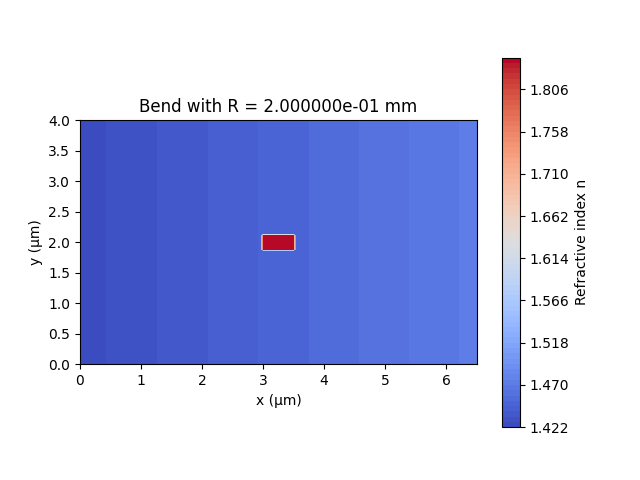
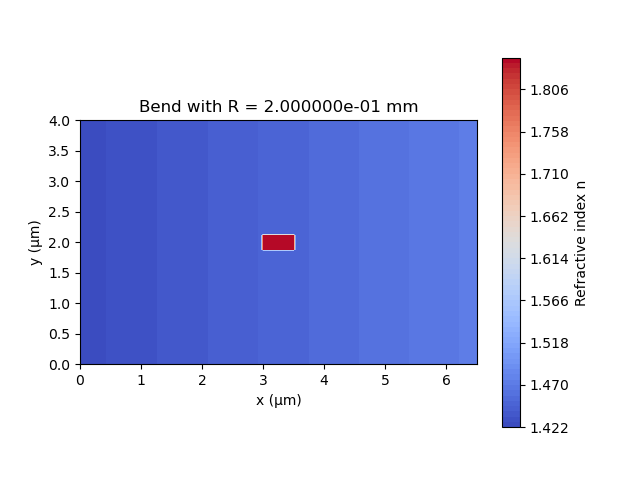
modify PML and try to fix loss calc

diff --git a/ModeSolver_2026/Waveguide.py b/ModeSolver_2026/Waveguide.py
@@ -14,7 +14,7 @@ from .pml import (
     boundary_for_empy,
     extend_vertex_axes,
     has_pml,
-    make_pml_epsfunc,
+    make_pml_complex_grid,
     normalize_pml_cells,
     validate_calc_boundary,
 )
@@ -72,6 +72,55 @@ def _waveguide_plot_kind(which: str | None) -> Literal["rix", "all"]:
         "Waveguide.plot(which=...): unknown "
         f"{which!r}; use None (default), 'RIX', 'refractiveindex', or 'all'."
     )
+
+
+def _svfd_solve_pml(
+    wl: float,
+    x: np.ndarray,
+    y: np.ndarray,
+    epsfunc,
+    boundary: str,
+    method: str,
+    neigs: int,
+    tol: float,
+    guess: float,
+) -> SVFDModeSolver:
+    """SVFD eigsolve with shift-invert, required for complex-grid PML.
+
+    EMpy's default SVFD ``solve()`` uses ``which='LR'`` (largest real-part
+    eigenvalue) which converges poorly for the fully-complex FD matrix
+    produced by stretched-coordinate PML grids.  This helper builds the
+    matrix the same way EMpy does, then calls ``eigs(sigma=...)`` to find
+    eigenvalues near the expected guided-mode range.
+    """
+    from scipy.sparse.linalg import eigs
+
+    solver = SVFDModeSolver(wl, x, y, epsfunc, boundary, method=method)
+    solver.nmodes = neigs
+    solver.tol = tol
+    A = solver.build_matrix()
+
+    k0 = 2.0 * np.pi / wl
+    sigma = (guess * k0) ** 2
+    eigvals, eigvecs = eigs(
+        A, k=neigs, sigma=sigma, tol=tol,
+        ncv=max(20, 10 * neigs), return_eigenvectors=True,
+    )
+
+    neff = wl * np.sqrt(eigvals) / (2.0 * np.pi)
+    phi = [eigvecs[:, i].reshape(solver.nx, solver.ny) for i in range(neigs)]
+
+    idx = np.flipud(np.argsort(neff.real))
+    solver.neff = neff[idx]
+    ordered_phi = [phi[i] for i in idx]
+
+    if method == "scalar":
+        solver.phi = ordered_phi
+    elif method == "Ex":
+        solver.Ex = ordered_phi
+    elif method == "Ey":
+        solver.Ey = ordered_phi
+    return solver
 
 
 class Waveguide:
@@ -439,6 +488,28 @@ class Waveguide:
 
         return epsfunc
 
+    def _make_epsfunc_bounded(self) -> Callable:
+        """Build a real ε callback that clamps coordinates to the physical box.
+
+        Unlike :meth:`_make_epsfunc`, coordinates outside ``[0, width] x
+        [0, height]`` are clamped (not rejected), so PML-padded grids get the
+        nearest-edge cladding index.  Complex-valued coordinates (from the
+        stretched-coordinate PML grid) are reduced to their real parts before
+        lookup.
+        """
+        def epsfunc(x: np.ndarray, y: np.ndarray) -> np.ndarray:
+            xr = np.real(x) if np.iscomplexobj(x) else x
+            yr = np.real(y) if np.iscomplexobj(y) else y
+            if xr.ndim != 1 or yr.ndim != 1:
+                raise ValueError("EMpy passes 1D center coordinates for x and y.")
+            eps = np.empty((xr.size, yr.size), dtype=np.float64)
+            for ix, xv in enumerate(xr):
+                for iy, yv in enumerate(yr):
+                    eps[ix, iy] = self._n_at_bounded(float(xv), float(yv)) ** 2
+            return eps
+
+        return epsfunc
+
     def calc(
         self,
         wavelength_um: float = 1.55,
@@ -485,9 +556,8 @@ class Waveguide:
 
             * ``'0'`` — Hx and Hy zero immediately outside the boundary (EMpy).
             * ``'S'`` / ``'A'`` — symmetry / antisymmetry (EMpy); see EMpy FD docs.
-            * ``'P'`` — perfectly matched layer (PML): absorption via complex
-              :math:`\\varepsilon` on padded cells; EMpy still sees outer ``'0'`` on
-              that edge.
+            * ``'P'`` — perfectly matched layer (PML): stretched-coordinate PML
+              via complex grid spacing; EMpy still sees outer ``'0'`` on that edge.
 
             Example: ``"PP00"`` is PML on top and bottom only, with zero-field boundaries on left and right.
 
@@ -495,9 +565,6 @@ class Waveguide:
             If only one character is provided, it is expanded to all four sides,
             e.g. ``"P"`` → ``"PPPP"``, ``"0"`` → ``"0000"``, ``"S"`` → ``"SSSS"``,
             ``"A"`` → ``"AAAA"``.
-
-            ``'P'`` (PML) is only implemented via the complex-ε
-            preprocessor (same path for SVFD and VFD).
         fd_method : str, default="scalar"
             For ``solver`` SVFD only: ``'scalar'``, ``'Ex'``, or ``'Ey'``.
         index_guess : float or None, default=None
@@ -525,31 +592,29 @@ class Waveguide:
         b_upper = validate_calc_boundary(boundary)
         b_empy = boundary_for_empy(b_upper)
 
-        if has_pml(b_upper):
+        use_pml = has_pml(b_upper)
+
+        if use_pml:
             pml_nswe = normalize_pml_cells(pml_cells, b_upper)
-            x, y, meta = extend_vertex_axes(w, h, nx, ny, b_upper, pml_nswe)
-            epsfunc = make_pml_epsfunc(
-                self._n_at_bounded,
-                w,
-                h,
-                wavelength_um,
-                b_upper,
-                meta["d_north_um"],
-                meta["d_south_um"],
-                meta["d_east_um"],
-                meta["d_west_um"],
-                m=pml_m,
-                R=pml_R,
+            x_real, y_real, meta = extend_vertex_axes(
+                w, h, nx, ny, b_upper, pml_nswe,
+            )
+            x, y = make_pml_complex_grid(
+                x_real, y_real, w, h, wavelength_um, b_upper,
+                meta["d_north_um"], meta["d_south_um"],
+                meta["d_east_um"], meta["d_west_um"],
+                m=pml_m, R=pml_R,
                 sigma_max_geom_override=pml_sigma_max_geom,
             )
+            epsfunc = self._make_epsfunc_bounded()
         else:
             x = np.linspace(0.0, w, nx)
             y = np.linspace(0.0, h, ny)
+            x_real = x
+            y_real = y
             epsfunc = self._make_epsfunc()
 
         # Conformal equivalent-index transformation for bent waveguides.
-        # Purely a preprocessing step on epsfunc; commutes with the PML
-        # complex-stretching factor, so both paths above are handled the same.
         bend = self._active_bend()
         if bend is not None:
             R_m, x0_um, formula = bend
@@ -568,6 +633,14 @@ class Waveguide:
             self._solver = fd_solver
             self._vectorial = True
             self._solver_backend = "vfd"
+        elif use_pml:
+            fd_solver = _svfd_solve_pml(
+                wavelength_um, x, y, epsfunc, b_empy,
+                fd_method, neigs, tol, guess,
+            )
+            self._solver = fd_solver
+            self._vectorial = False
+            self._solver_backend = "svfd"
         else:
             fd_solver = SVFDModeSolver(
                 wavelength_um, x, y, epsfunc, b_empy, method=fd_method
@@ -577,8 +650,8 @@ class Waveguide:
             self._solver_backend = "svfd"
 
         self._wl_um = wavelength_um
-        self._x = x
-        self._y = y
+        self._x = np.real(x_real) if np.iscomplexobj(x_real) else x_real
+        self._y = np.real(y_real) if np.iscomplexobj(y_real) else y_real
         return self
 
     @property

diff --git a/ModeSolver_2026/pml.py b/ModeSolver_2026/pml.py
@@ -1,4 +1,4 @@
-"""PML preprocessing: complex isotropic permittivity on a padded real grid."""
+"""PML preprocessing via stretched-coordinate complex grid for FD mode solvers."""
 
 from __future__ import annotations
 
@@ -189,6 +189,103 @@ def _s_stretch(
     return 1.0 - 1.0j * sigma_rad / omega
 
 
+def make_pml_complex_grid(
+    x_real: np.ndarray,
+    y_real: np.ndarray,
+    w_um: float,
+    h_um: float,
+    wavelength_um: float,
+    boundary_upper: str,
+    d_north_um: float,
+    d_south_um: float,
+    d_east_um: float,
+    d_west_um: float,
+    m: int = 3,
+    R: float = 1e-8,
+    sigma_max_geom_override: float | None = None,
+) -> tuple[np.ndarray, np.ndarray]:
+    """Convert real extended vertex axes into complex stretched-coordinate arrays.
+
+    Inside the physical domain ``[0, w] x [0, h]`` the coordinates stay purely
+    real.  In the PML padding the cell spacings acquire an imaginary part that
+    encodes the PML absorption via the Chew & Weedon (1994) stretched-coordinate
+    formulation.  When passed to EMpy's FD solver, ``dx = numpy.diff(x_complex)``
+    is complex in PML cells, so the finite-difference stencil coefficients
+    (which are proportional to ``1/dx`` and ``1/dx**2``) automatically include
+    the correct ``1/s`` and ``1/s**2`` PML factors without modifying EMpy's code.
+
+    Parameters
+    ----------
+    x_real, y_real : np.ndarray
+        Real vertex coordinates (µm) from :func:`extend_vertex_axes`.
+    w_um, h_um : float
+        Physical domain width and height in µm.
+    wavelength_um : float
+        Vacuum wavelength in µm.
+    boundary_upper : str
+        Four-character NSEW boundary string (from :func:`validate_calc_boundary`).
+    d_north_um, d_south_um, d_east_um, d_west_um : float
+        PML slab thickness on each side in µm (0 when that side is not PML).
+    m : int, default 3
+        Polynomial grading order for :math:`\\sigma(u) \\propto (u/d)^m`.
+    R : float, default 1e-8
+        Target reflectivity for the default :math:`\\sigma_{\\max}`.
+    sigma_max_geom_override : float or None, default None
+        If set, overrides the automatic :math:`\\sigma_{\\max}`.
+
+    Returns
+    -------
+    x_complex, y_complex : np.ndarray (dtype=complex128)
+        Vertex arrays whose ``diff()`` values carry the PML stretching.
+    """
+    omega = 2.0 * np.pi * const.c / (wavelength_um * 1e-6)
+    b = boundary_upper
+
+    def _stretch_axis(
+        coords: np.ndarray,
+        lo: float,
+        hi: float,
+        d_lo_um: float,
+        d_hi_um: float,
+        b_lo: str,
+        b_hi: str,
+    ) -> np.ndarray:
+        n = len(coords)
+        if n < 2:
+            return coords.astype(np.complex128)
+        dx_real = np.diff(coords)
+        dx_complex = np.empty(n - 1, dtype=np.complex128)
+        for i in range(n - 1):
+            mid = 0.5 * (coords[i] + coords[i + 1])
+            s: complex = 1.0 + 0.0j
+            if b_hi == "P" and d_hi_um > 0.0:
+                u = max(0.0, mid - hi)
+                if u > 0.0:
+                    s *= _s_stretch(u, d_hi_um, m, R, omega, sigma_max_geom_override)
+            if b_lo == "P" and d_lo_um > 0.0:
+                u = max(0.0, lo - mid)
+                if u > 0.0:
+                    s *= _s_stretch(u, d_lo_um, m, R, omega, sigma_max_geom_override)
+            # _s_stretch returns s = 1 - jσ/ω (ε-convention: multiplying ε by s
+            # adds loss).  EMpy's FD stencil needs Im(dx) > 0 for absorption
+            # (see EMpy.stretchmesh which forces Im >= 0).  Conjugating gives
+            # s_grid = 1 + jσ/ω so that dx_complex has the correct sign.
+            dx_complex[i] = dx_real[i] * s.conjugate()
+        out = np.empty(n, dtype=np.complex128)
+        out[0] = coords[0]
+        np.cumsum(dx_complex, out=out[1:])
+        out[1:] += coords[0]
+        return out
+
+    # x: west PML is the "lo" side (x < 0), east PML is the "hi" side (x > w)
+    x_complex = _stretch_axis(x_real, 0.0, w_um, d_west_um, d_east_um, b[3], b[2])
+    # y: south PML is the "lo" side (y < 0), north PML is the "hi" side (y > h)
+    y_complex = _stretch_axis(y_real, 0.0, h_um, d_south_um, d_north_um, b[1], b[0])
+    return x_complex, y_complex
+
+
+# ---- legacy / deprecated -------------------------------------------------
+
 def make_pml_epsfunc(
     n_at_bounded: Callable[[float, float], float],
     w_um: float,
@@ -203,40 +300,24 @@ def make_pml_epsfunc(
     R: float = 1e-8,
     sigma_max_geom_override: float | None = None,
 ) -> Callable[[np.ndarray, np.ndarray], np.ndarray]:
+    """Return ``epsfunc(x, y)`` with isotropic complex-ε PML.
+
+    .. deprecated::
+        This applies PML via ``ε_eff = n² · s_x · s_y``, an isotropic
+        approximation that adds spurious loss to guided modes.  Use
+        :func:`make_pml_complex_grid` (stretched-coordinate approach) instead.
     """
-    Return ``epsfunc(x, y)`` suitable for EMpy: relative permittivity ε_r = n² (complex).
-    """
+    import warnings
+    warnings.warn(
+        "make_pml_epsfunc() uses an isotropic ε approximation that adds "
+        "spurious loss to guided modes.  Use make_pml_complex_grid() instead.",
+        DeprecationWarning,
+        stacklevel=2,
+    )
     omega = 2.0 * np.pi * const.c / (wavelength_um * 1e-6)
     b = boundary_upper
 
     def epsfunc(x: np.ndarray, y: np.ndarray) -> np.ndarray:
-        """
-        Compute complex relative permittivity with PML absorption.
-
-        Parameters
-        ----------
-        x : np.ndarray
-            1-D array of x-coordinates in microns (EMpy cell centers).
-        y : np.ndarray
-            1-D array of y-coordinates in microns (EMpy cell centers).
-
-        Returns
-        -------
-        np.ndarray
-            Complex relative permittivity ε_r = (n₀ √(s_x s_y))² with shape
-            (x.size, y.size), dtype=complex128.
-
-        Raises
-        ------
-        ValueError
-            If x or y is not 1-dimensional.
-        
-        Notes
-        -----
-        Coordinates outside the physical window [0, w]×[0, h] inherit edge
-        cladding index via n_at_bounded, with complex stretching applied
-        based on depth into each active PML slab..
-        """
         if x.ndim != 1 or y.ndim != 1:
             raise ValueError("EMpy passes 1D center coordinates for x and y.")
         out = np.empty((x.size, y.size), dtype=np.complex128)

diff --git a/examples/Example1 - SiN rect wg modes.py b/examples/Example1 - SiN rect wg modes.py
@@ -46,9 +46,9 @@ fig_n.savefig(out_n)
 print(f"Wrote {out_n}")
 
 
+'''
 # curve the waveguide using index transformation:
 WG.bend_radius = 200e-6   # meters 
-
 
 # plot refractive index profile
 
@@ -59,6 +59,7 @@ out_n = Path(__file__).resolve().parent / "Example1 - Bend RIX profile.png"
 fig_n.savefig(out_n)
 #plt.close(fig_n)
 print(f"Wrote {out_n}")
+'''
 
 
 # Default ``solver='SVFD'`` (EMpy semi-vectorial FD) — fast for this demo.
@@ -77,8 +78,7 @@ for m in WG.modes:
     print(   m.neff, str(m.get_alpha_dB()) + " dB/m"   )
 
 
-fig, ax = WG.plot("all", 
-                  title = "Bend with R = %e mm" % (WG.bend_radius * 1e3))
+fig, ax = WG.plot("all")
 
 out = Path(__file__).resolve().parent / "Example1 - SiN rect wg modes output.png"
 fig.savefig(out)
